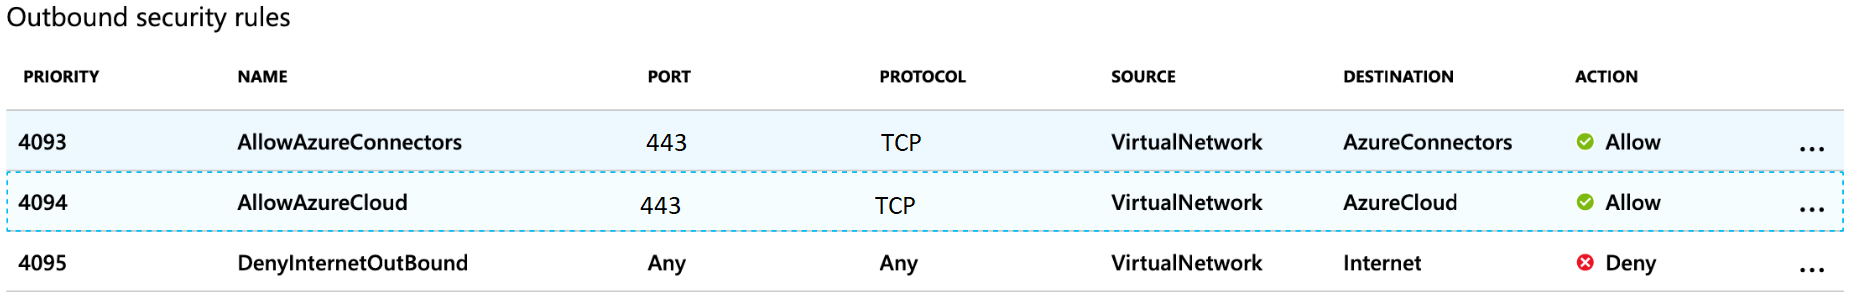
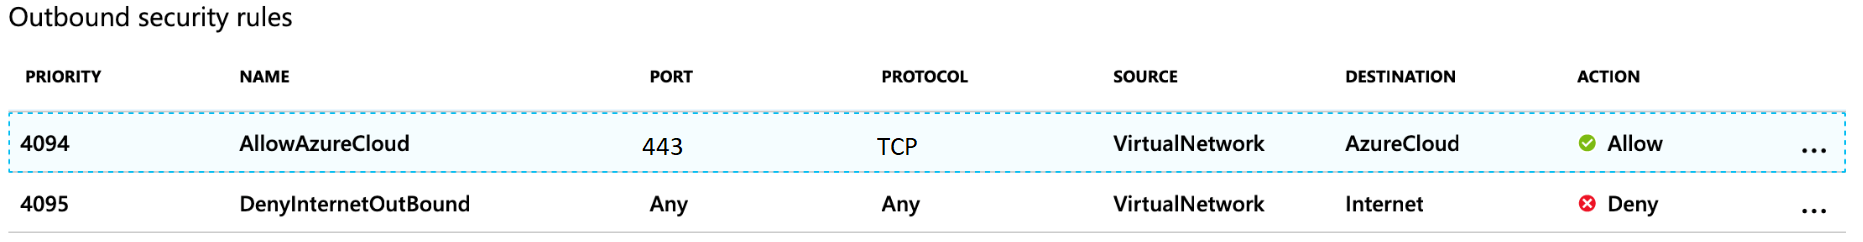
remove AzureConnectors requirement (#395)
* remove AzureConnectors requirement
(According to Woodward 5/9/2019)
* Updated image file (just a patch, not a new image)

diff --git a/src/vfxt/internet_access.md b/src/vfxt/internet_access.md
@@ -8,7 +8,7 @@ The following shows how to handle restricted internet access, by configuring any
 Here are the requirements for a locked down network security group:
   * Open up `download.averesystems.com`, TCP port `443`
   * ensure "Microsoft.Service" endpoint is setup on all Virtual Network Subnets
-  * Open up access to TCP port `443` to 'AzureConnectors' and 'AzureCloud' as shown in the below image:
+  * Open up access to TCP port `443` to 'AzureCloud' as shown in the below image:
 
   ![Network Security group outbound rules showing opening up TCP port `443` to 'AzureConnectors' and 'AzureCloud'](../../docs/images/outboundrules.png)
 
